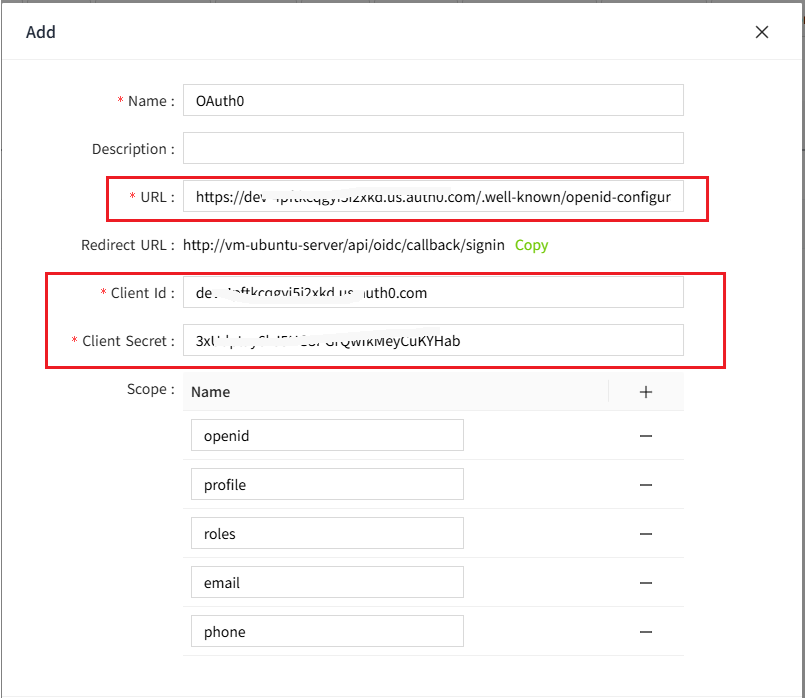
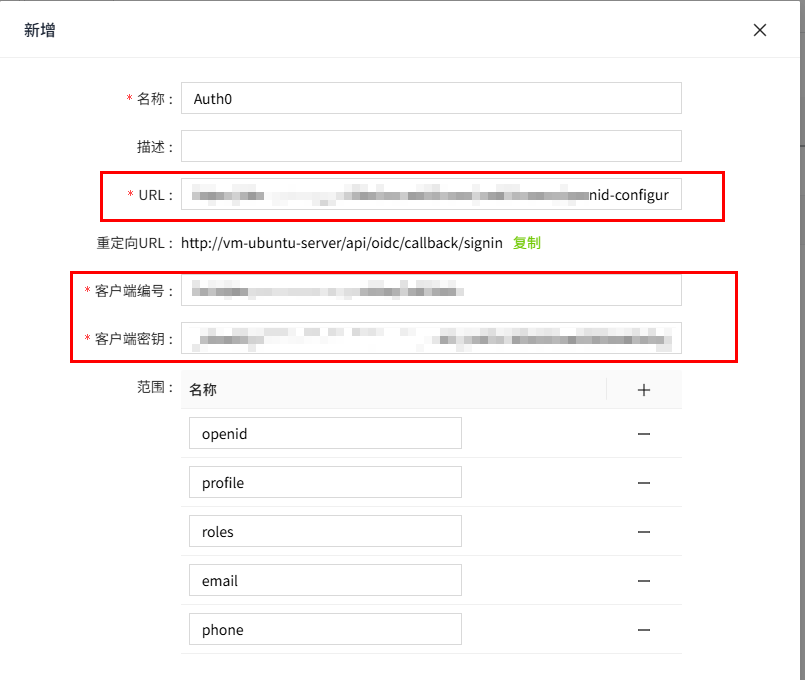
1

diff --git a/docs/management-platform/security/identity-provider/integrates-with-OAuth0.md b/docs/management-platform/security/identity-provider/integrates-with-OAuth0.md
@@ -1,45 +1,41 @@
-# Integrates with OAuth0
+# 集成Auth0
 
-**Auth0** is a flexible, drop-in solution to add authentication and authorization services to web applications and mobile applications. It provides a secure and scalable identity platform that supports a wide range of identity providers, such as username/password, social logins (Google, Facebook, etc.), enterprise logins (Active Directory, SAML), and passwordless options.
+**Auth0** 是一个灵活、即插即用的解决方案，可为Web应用程序和移动应用程序添加身份验证与授权服务。该平台提供安全且可扩展的身份管理，支持多种身份提供商登录方式，包括：用户名/密码、社交账号登录（如Google、Facebook等）、企业级登录（如Active Directory、SAML协议）以及无密码验证选项。
 
-VC Hub is compatible with OpenID Connect (OIDC) and can seamlessly integrate with Auth0.
+WAGO VC Hub 采用标准的 OpenID Connect 协议（OIDC），可与 Auth0 无缝集成。
 
-1. Navigate to the OAuth offical page( [https://auth0.com/](https://auth0.com/) ), the clcik the "Sign up" button 
+1. 打开Auth0官方首页( [https://auth0.com/](https://auth0.com/) ), 点击 "Sign up" 按钮
 
     ![alt text](1.png)
 
-2. Signup with email address or social account such as Microsoft, Google and Github
+2. 使用邮箱或者社交媒体账号注册Auth0账号
 
     ![alt text](2.png)
 
-3. Sign in with new account, and navigate the dashboard.
+3. 完成注册并登录后，进入"Dashbaord"页面
 
     ![alt text](3.png)
 
-4. Click the menu "Applications->Applications" to open the application management page.
+4. 点击菜单 "Applications->Applications"打开应用注册界面。
 
     ![alt text](4.png)
 
-5.  Click the "Create Application Button", then a Create application form popup. There are 4 application type to be selected. VC Hub uses Authorization Code of OIDC protocol, the corresponding application type is the **"Regular Web Applications"** type. 
+5. 点击按钮"**Create Application Button**"打开"**Create Application**"弹窗，此时有4个应用类型可以选择。WAGO VC Hub采用了OIDC 协议中的Authorization Code Flow ， 这个flow对应的应用类型是 **"Regular Web Applications"** 
 
     ![alt text](5.png)
 
-
-
-6. Click the **"Create"** button, then navigate the application detail page, then enter the "Allowed Callback URLs" and "Allowed Logout URLs".  The callback URL of SCADA is **https://{vchub-host}/api/oidc/callback/signin**, and the logout url is **https://{vchub-host}/api/oidc/callback/signout**. The callback URL can be copied from the identity provider form.
+6. 点击“**Create**”按钮进入应用详情页面，在输入项"**Allowed Callback URLs**"和"**Allowed Logout URLs**"中，输入WAGO VC Hub的登入回调地址，和登出回调地址。 WAGO VC Hub的登入回调地址分别是 **https://{vchub-host}/api/oidc/callback/signin** 和 **https://{vchub-host}/api/oidc/callback/signout**.  
 
     ![alt text](6.png)
 
     ![alt text](7.png)
 
-7. Copy the **Client ID**, the **Client Secret** and the **Domain** from the application detail page of OAuth,  then enter these data into the identity provider form.
+7. 复制应用详情页面中的**Client ID**,** Client Secret**和**Domain。**
 
     ![alt text](8.png)
 
-8. Navigate to the identity provider management page on VC Hub and click the **"Add"** button to open the identity provider creation form, then fill the form the "**Client ID**" and "**Client Secret**". And fill the URL field with the value which is composed of the **Domain** copied from from the previous step and the path **/.well-known/openid-configuration**
+8. 打开VC Hub系统的identty provider管理页面，点击"**添加**"按钮打开身份提供商创建表单，填写表单中的"**客户ID**"和"**客户端密钥**"字段。并在URL输入框中填入由上一步复制的 **域名** 与路径 **/.well-known/openid-configuration组成的网址**。
 
     ![alt text](9.png)
 
-
-
-9. After completing the above steps, you can login with this identity provider now.
+9. 完成上述步骤后，就可以使用Auth0进行用户登录
